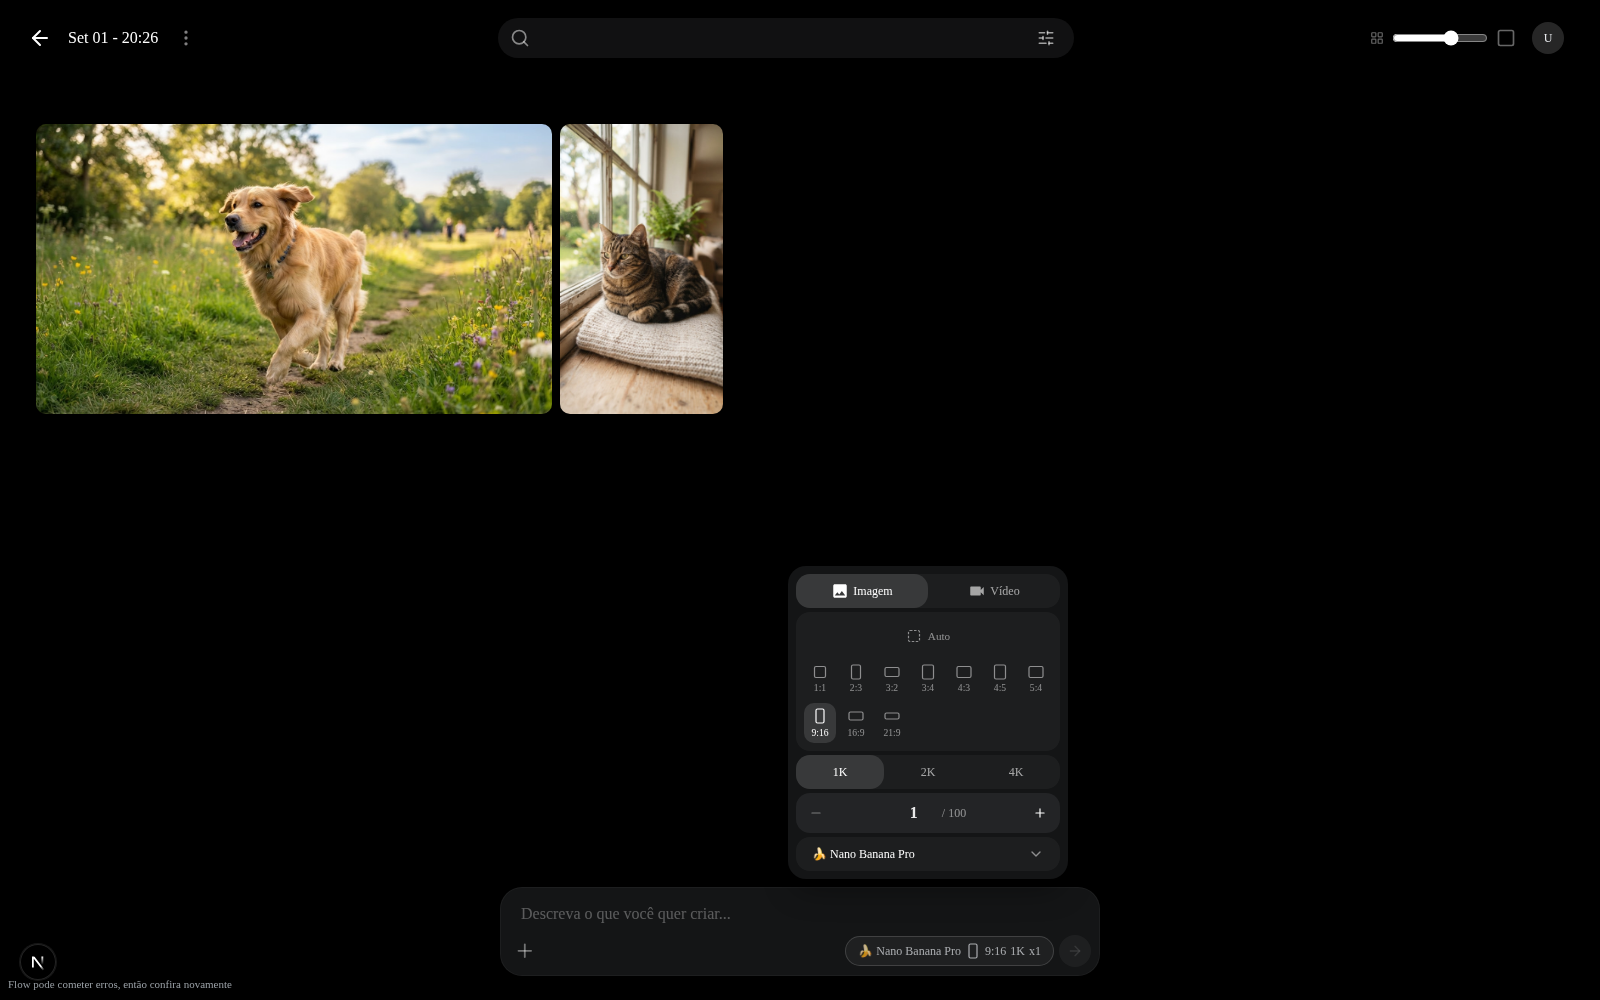
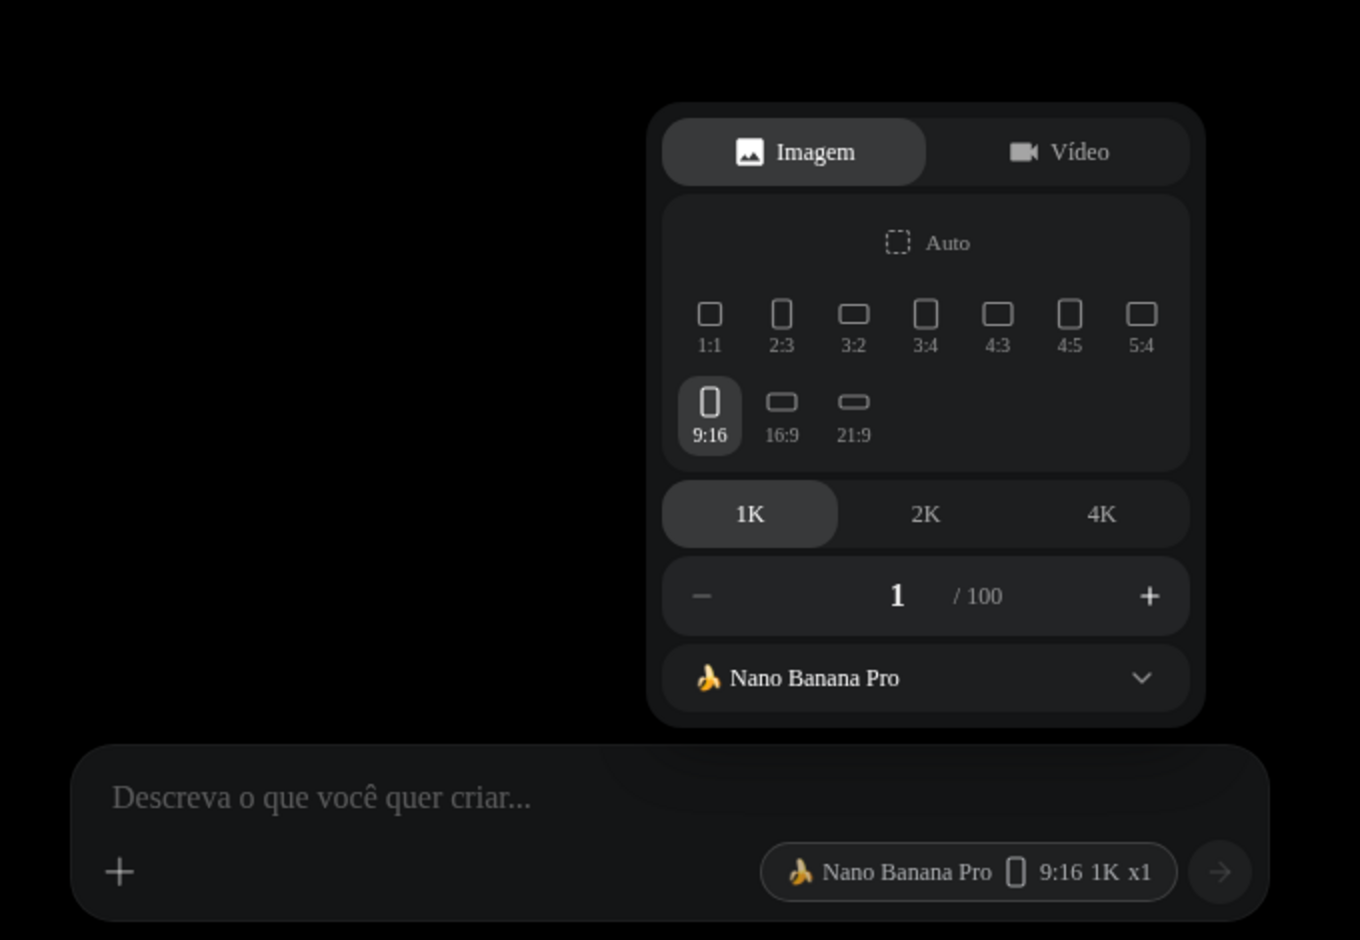
docs: focus screenshots on desktop controls

diff --git a/README.md b/README.md
@@ -39,9 +39,9 @@ Most generative media tools separate image creation, video generation, reference
 | --- | --- |
 | ![Flow project dashboard](docs/images/dashboard.png) | ![Flow image and video workspace](docs/images/workspace.png) |
 
-| Generation controls | Mobile workspace |
-| --- | --- |
-| ![Flow model and output controls](docs/images/generation-controls.png) | <img src="docs/images/mobile-workspace.png" alt="Flow mobile workspace" width="360" /> |
+### Generation controls
+
+![Close-up of Flow model, aspect ratio, size, quantity, and prompt controls](docs/images/generation-controls.png)
 
 ## Supported models
 
@@ -76,7 +76,7 @@ For Veo, outputs above 720p use an 8-second duration because that is the constra
 - Asynchronous Omni and Veo operation polling
 - Project creation, rename, deletion, and visual thumbnails
 - Persistent PostgreSQL media and project library
-- Responsive desktop and mobile interface
+- Desktop-first creative interface
 - Media preview, zoom, download, delete, and prompt reuse
 - Portuguese product interface with English-first project documentation
 - Direct Vertex AI authentication, with no Google AI Studio API key required
@@ -196,20 +196,6 @@ See [Deployment](docs/DEPLOYMENT.md) and [Configuration](docs/CONFIGURATION.md) 
 - [Testing](docs/TESTING.md): current checks and manual verification
 - [Deployment](docs/DEPLOYMENT.md): Vercel and production considerations
 - [Security Policy](SECURITY.md): responsible vulnerability reporting
-
-## Roadmap
-
-- [ ] Authentication and private multi-user workspaces
-- [ ] Rate limiting, quotas, and cost controls
-- [ ] Cloud object storage for generated media
-- [ ] Background job queue with durable generation state
-- [ ] More Vertex AI models as they become generally available
-- [ ] Timeline and scene-building tools
-- [ ] Prompt presets and reusable style libraries
-- [ ] Internationalized interface
-- [ ] Automated unit, integration, and browser test suites
-
-Have an idea? [Open a feature request](https://github.com/TechBeme/flow/issues/new?template=feature_request.yml) or start a discussion after the repository launches.
 
 ## Contributing
 

diff --git a/README.es.md b/README.es.md
@@ -39,9 +39,9 @@ La mayoría de las herramientas de medios generativos separan la creación de im
 | --- | --- |
 | ![Panel de proyectos de Flow](docs/images/dashboard.png) | ![Espacio de imágenes y videos de Flow](docs/images/workspace.png) |
 
-| Controles de generación | Experiencia móvil |
-| --- | --- |
-| ![Controles de modelos y salida](docs/images/generation-controls.png) | <img src="docs/images/mobile-workspace.png" alt="Espacio móvil de Flow" width="360" /> |
+### Controles de generación
+
+![Detalle de los controles de modelo, proporción, tamaño, cantidad y prompt de Flow](docs/images/generation-controls.png)
 
 ## Modelos disponibles
 
@@ -76,7 +76,7 @@ En Veo, las salidas superiores a 720p utilizan una duración de 8 segundos, de a
 - Seguimiento asíncrono de operaciones de Omni y Veo
 - Creación, renombrado, eliminación y miniaturas visuales de proyectos
 - Biblioteca persistente de proyectos y medios en PostgreSQL
-- Interfaz responsive para escritorio y móvil
+- Interfaz creativa enfocada en escritorio
 - Vista previa, zoom, descarga, eliminación y reutilización de prompts
 - Interfaz de producto en portugués y documentación en tres idiomas
 - Autenticación directa con la Vertex AI API, sin clave de Google AI Studio
@@ -195,18 +195,6 @@ Consulta [Despliegue](docs/DEPLOYMENT.md) y [Configuración](docs/CONFIGURATION.
 - [Pruebas](docs/TESTING.md)
 - [Despliegue](docs/DEPLOYMENT.md)
 - [Política de seguridad](SECURITY.md)
-
-## Roadmap
-
-- [ ] Autenticación y espacios privados para múltiples usuarios
-- [ ] Rate limiting, cuotas y control de costes
-- [ ] Almacenamiento de objetos para medios generados
-- [ ] Cola de trabajos con estado de generación duradero
-- [ ] Más modelos disponibles mediante APIs
-- [ ] Timeline y herramientas de construcción de escenas
-- [ ] Presets de prompts y bibliotecas de estilos
-- [ ] Interfaz internacionalizada
-- [ ] Pruebas unitarias, de integración y de navegador
 
 ## Contribuir
 

diff --git a/README.pt-BR.md b/README.pt-BR.md
@@ -39,9 +39,9 @@ O Flow reúne o ciclo criativo de geração de mídia em um único workspace vis
 | --- | --- |
 | ![Dashboard de projetos do Flow](docs/images/dashboard.png) | ![Workspace de imagens e vídeos do Flow](docs/images/workspace.png) |
 
-| Controles de geração | Workspace no celular |
-| --- | --- |
-| ![Controles de modelo e saída](docs/images/generation-controls.png) | <img src="docs/images/mobile-workspace.png" alt="Workspace móvel do Flow" width="360" /> |
+### Controles de geração
+
+![Detalhe dos controles de modelo, proporção, tamanho, quantidade e prompt do Flow](docs/images/generation-controls.png)
 
 ## Modelos disponíveis
 
@@ -74,7 +74,7 @@ No Veo, saídas acima de 720p usam duração de 8 segundos. Vídeos suportam `16
 - Acompanhamento assíncrono de gerações Omni e Veo
 - Projetos com nome, miniatura e galeria persistente
 - Preview, zoom, download, exclusão e reutilização de prompt
-- Interface responsiva para desktop e celular
+- Interface criativa focada em desktop
 - Integração direta com Vertex AI, sem chave do Google AI Studio
 
 ## Stack
@@ -151,18 +151,6 @@ Veja [Deployment](docs/DEPLOYMENT.md) para os cuidados de produção.
 - [Testes](docs/TESTING.md)
 - [Deploy](docs/DEPLOYMENT.md)
 - [Política de segurança](SECURITY.md)
-
-## Roadmap
-
-- [ ] Autenticação e workspaces privados para múltiplos usuários
-- [ ] Rate limiting, cotas e controle de custos
-- [ ] Object storage para mídias geradas
-- [ ] Fila de tarefas e estado durável de geração
-- [ ] Mais modelos do Vertex AI
-- [ ] Timeline e ferramentas para construir cenas
-- [ ] Presets de prompt e bibliotecas de estilo
-- [ ] Interface internacionalizada
-- [ ] Testes unitários, de integração e navegador
 
 ## Contribuindo
 

diff --git a/docs/TESTING.md b/docs/TESTING.md
@@ -1,6 +1,6 @@
 # Testing
 
-Flow currently uses static quality gates and manual end-to-end verification. An automated unit and browser test suite is on the roadmap.
+Flow currently uses static quality gates and manual end-to-end verification. There is no automated unit or browser test suite.
 
 ## Automated checks
 
@@ -22,7 +22,7 @@ The production build does not require live database or Vertex AI credentials. Th
 4. Generate one image with a model available to your project.
 5. Generate one video, wait for polling to finish, play it, and download it.
 6. Reuse a prompt and verify the reference image is restored.
-7. Check the project on a desktop viewport and a narrow mobile viewport.
+7. Check the project on its desktop target viewport.
 8. Confirm failed upstream requests show a useful message and do not remain stuck in a generating state.
 
 ## Integration truth

diff --git a/docs/DEPLOYMENT.md b/docs/DEPLOYMENT.md
@@ -36,7 +36,7 @@ Never upload `vertex.json` to the repository or add its contents to `next.config
 - [ ] Verify serverless request/response and execution-duration limits against target video sizes.
 - [ ] Remove secrets from logs and error tracking.
 - [ ] Validate image generation and every enabled video model with the deployed environment.
-- [ ] Verify mobile and desktop rendering.
+- [ ] Verify rendering on the desktop target viewport.
 - [ ] Confirm the custom domain, canonical URL, Open Graph image, robots file, and sitemap.
 
 ## Important limits
